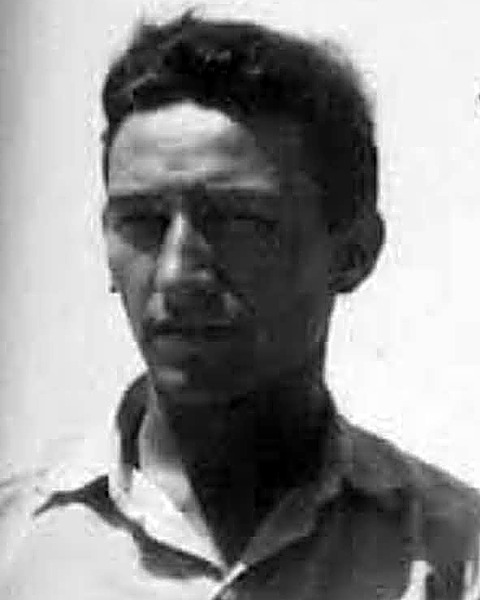
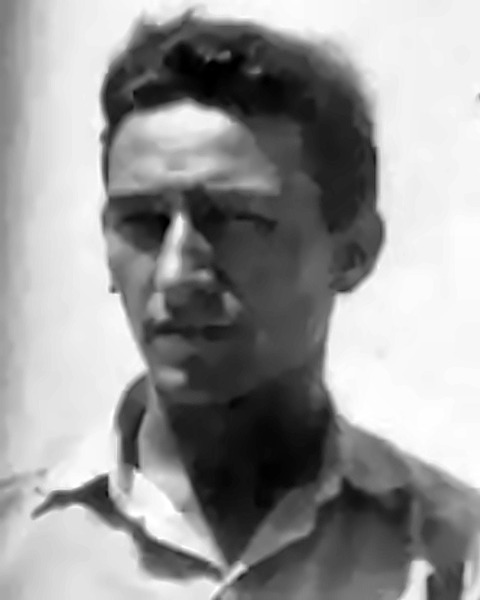
Our People: full-res marae hero; denoise Jim, lift shadow on John
Claude-Session: https://claude.ai/code/session_01LThyTBrLcFZEEVGrYi5N7g

diff --git a/people.html b/people.html
@@ -10,7 +10,7 @@
 <link rel="stylesheet" href="/styles.css">
 <style>
 .people-hero{margin-top:64px;background:#394e3d;padding:2.5rem 2rem 3rem;text-align:center;display:flex;flex-direction:column;align-items:center;}
-.people-hero img{order:2;width:100%;max-width:760px;display:block;height:auto;box-shadow:0 6px 24px rgba(0,0,0,0.35);}
+.people-hero img{order:2;width:100%;max-width:1100px;display:block;height:auto;box-shadow:0 6px 24px rgba(0,0,0,0.35);}
 .people-hero-overlay{order:1;margin-bottom:1.8rem;display:flex;flex-direction:column;align-items:center;}
 .people-hero-overlay .eyebrow{font-size:0.65rem;letter-spacing:0.22em;text-transform:uppercase;color:rgba(255,255,255,0.65);margin-bottom:0.5rem;display:flex;align-items:center;gap:0.7rem;font-weight:300;}
 .people-hero-overlay .eyebrow::before{content:'';display:block;width:24px;height:1px;background:rgba(255,255,255,0.4);}
